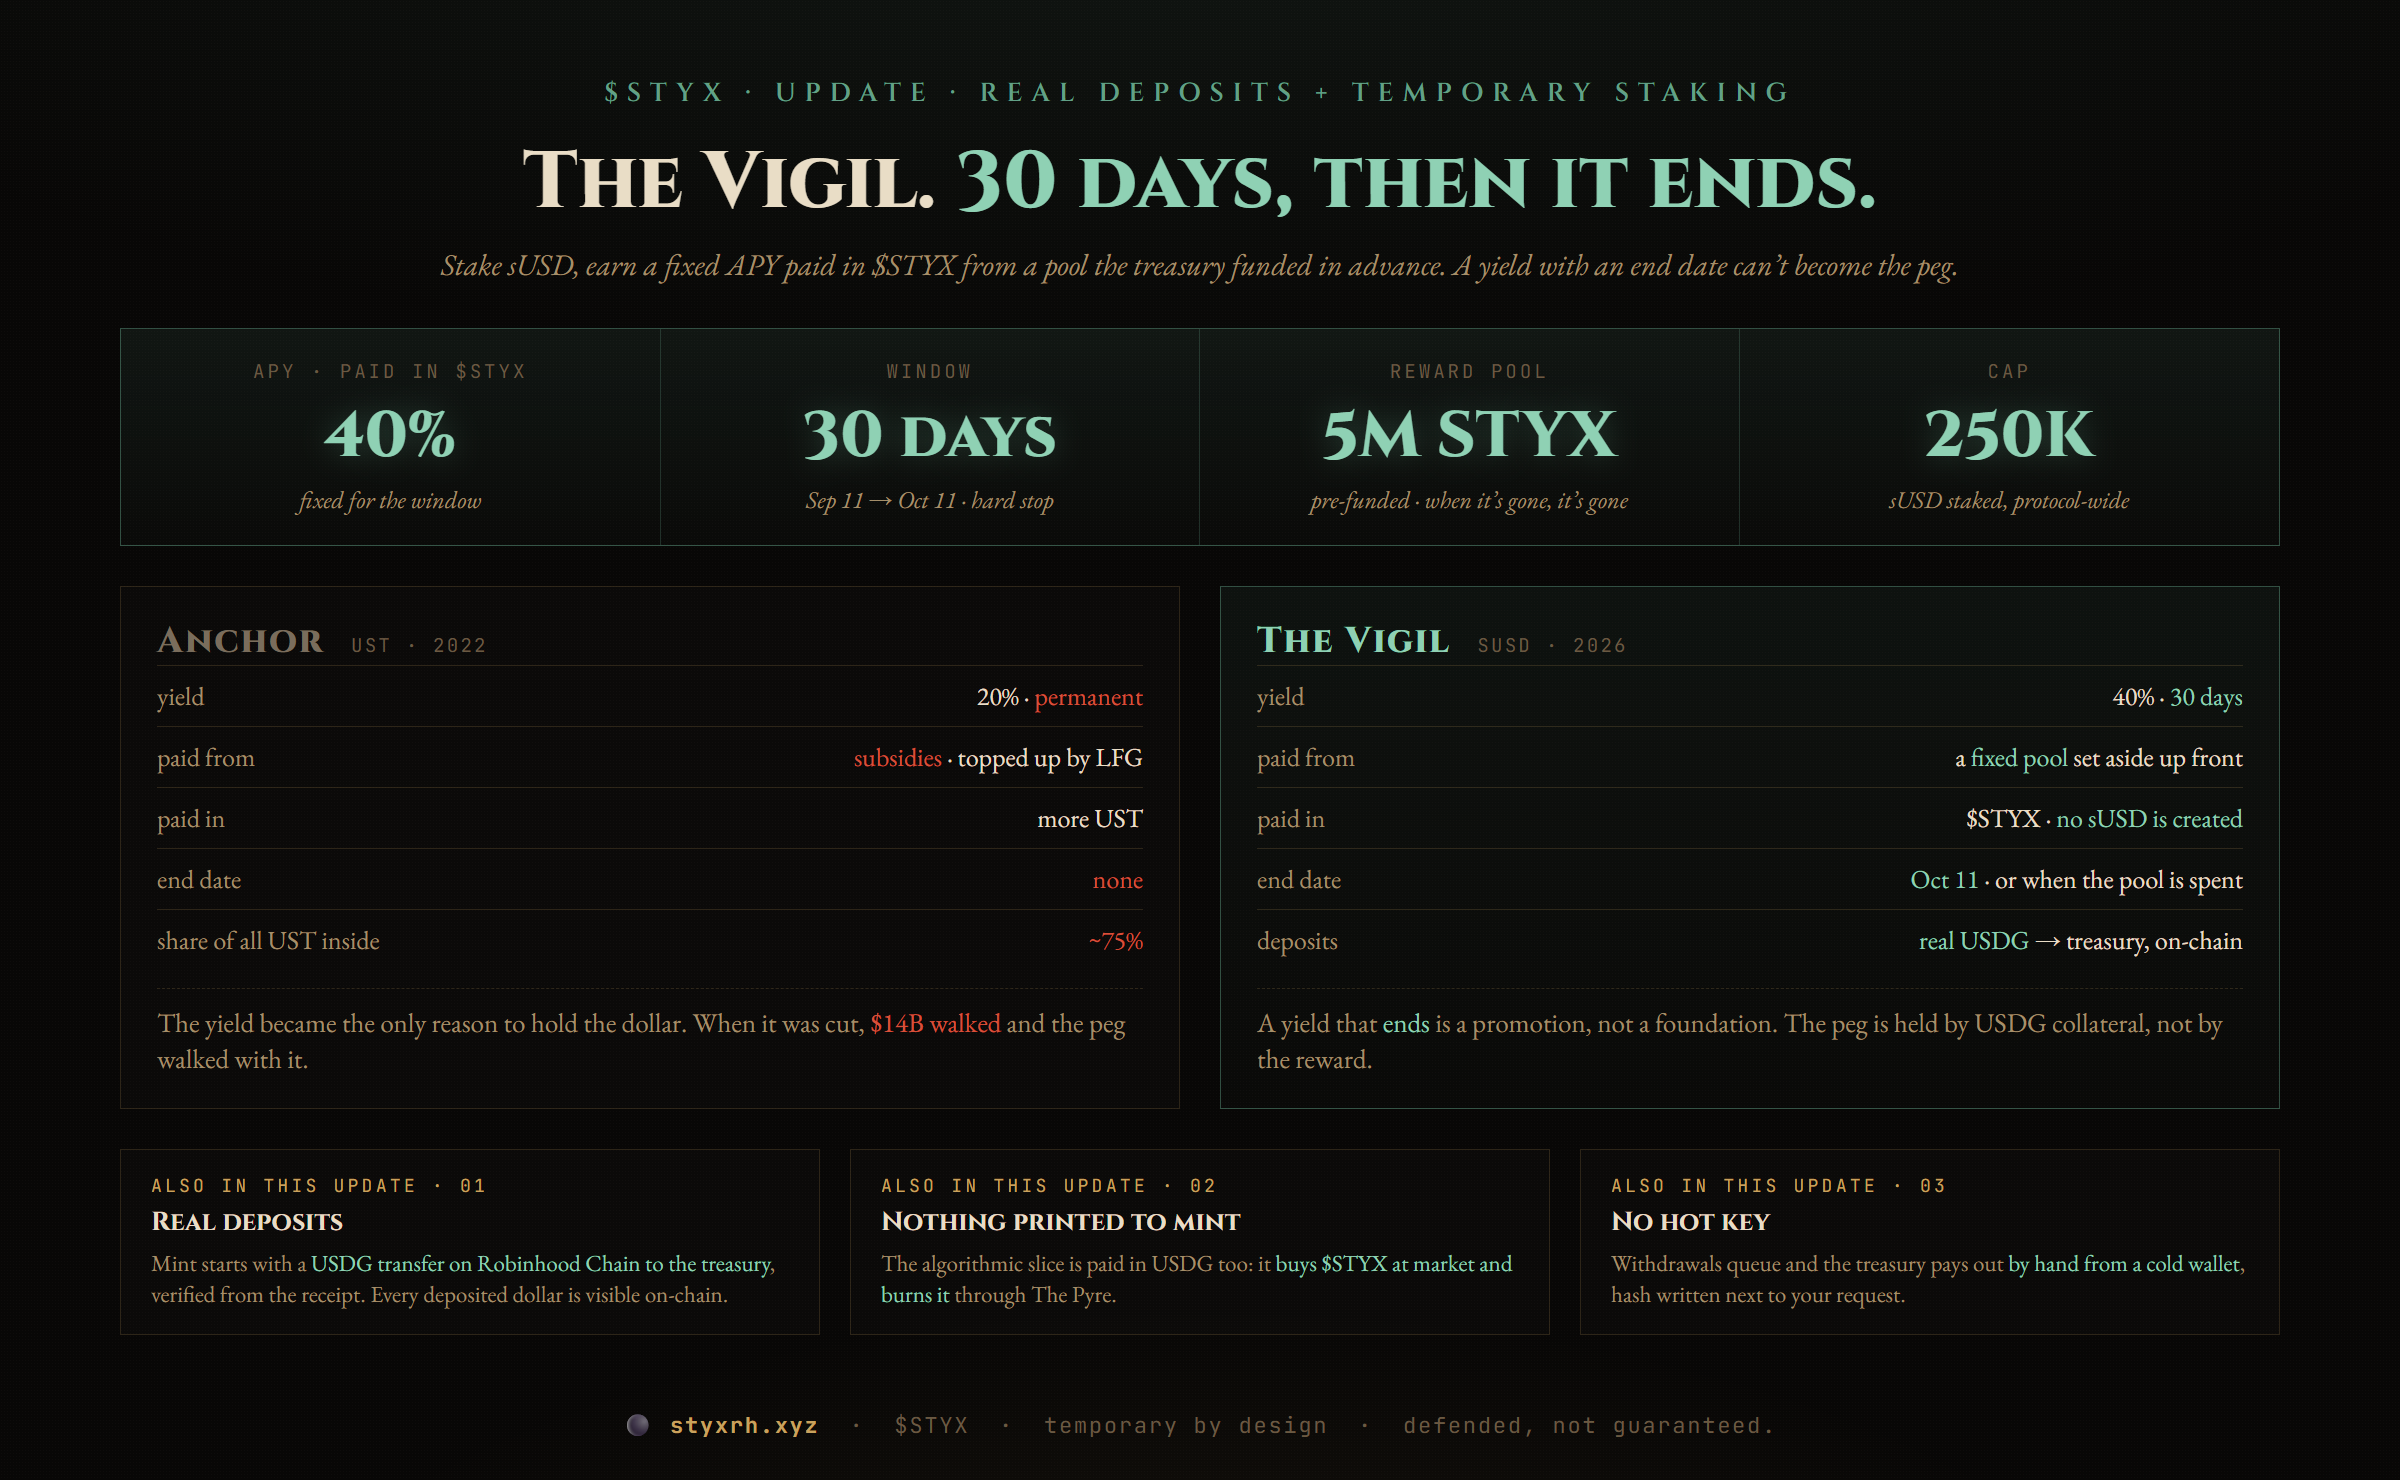
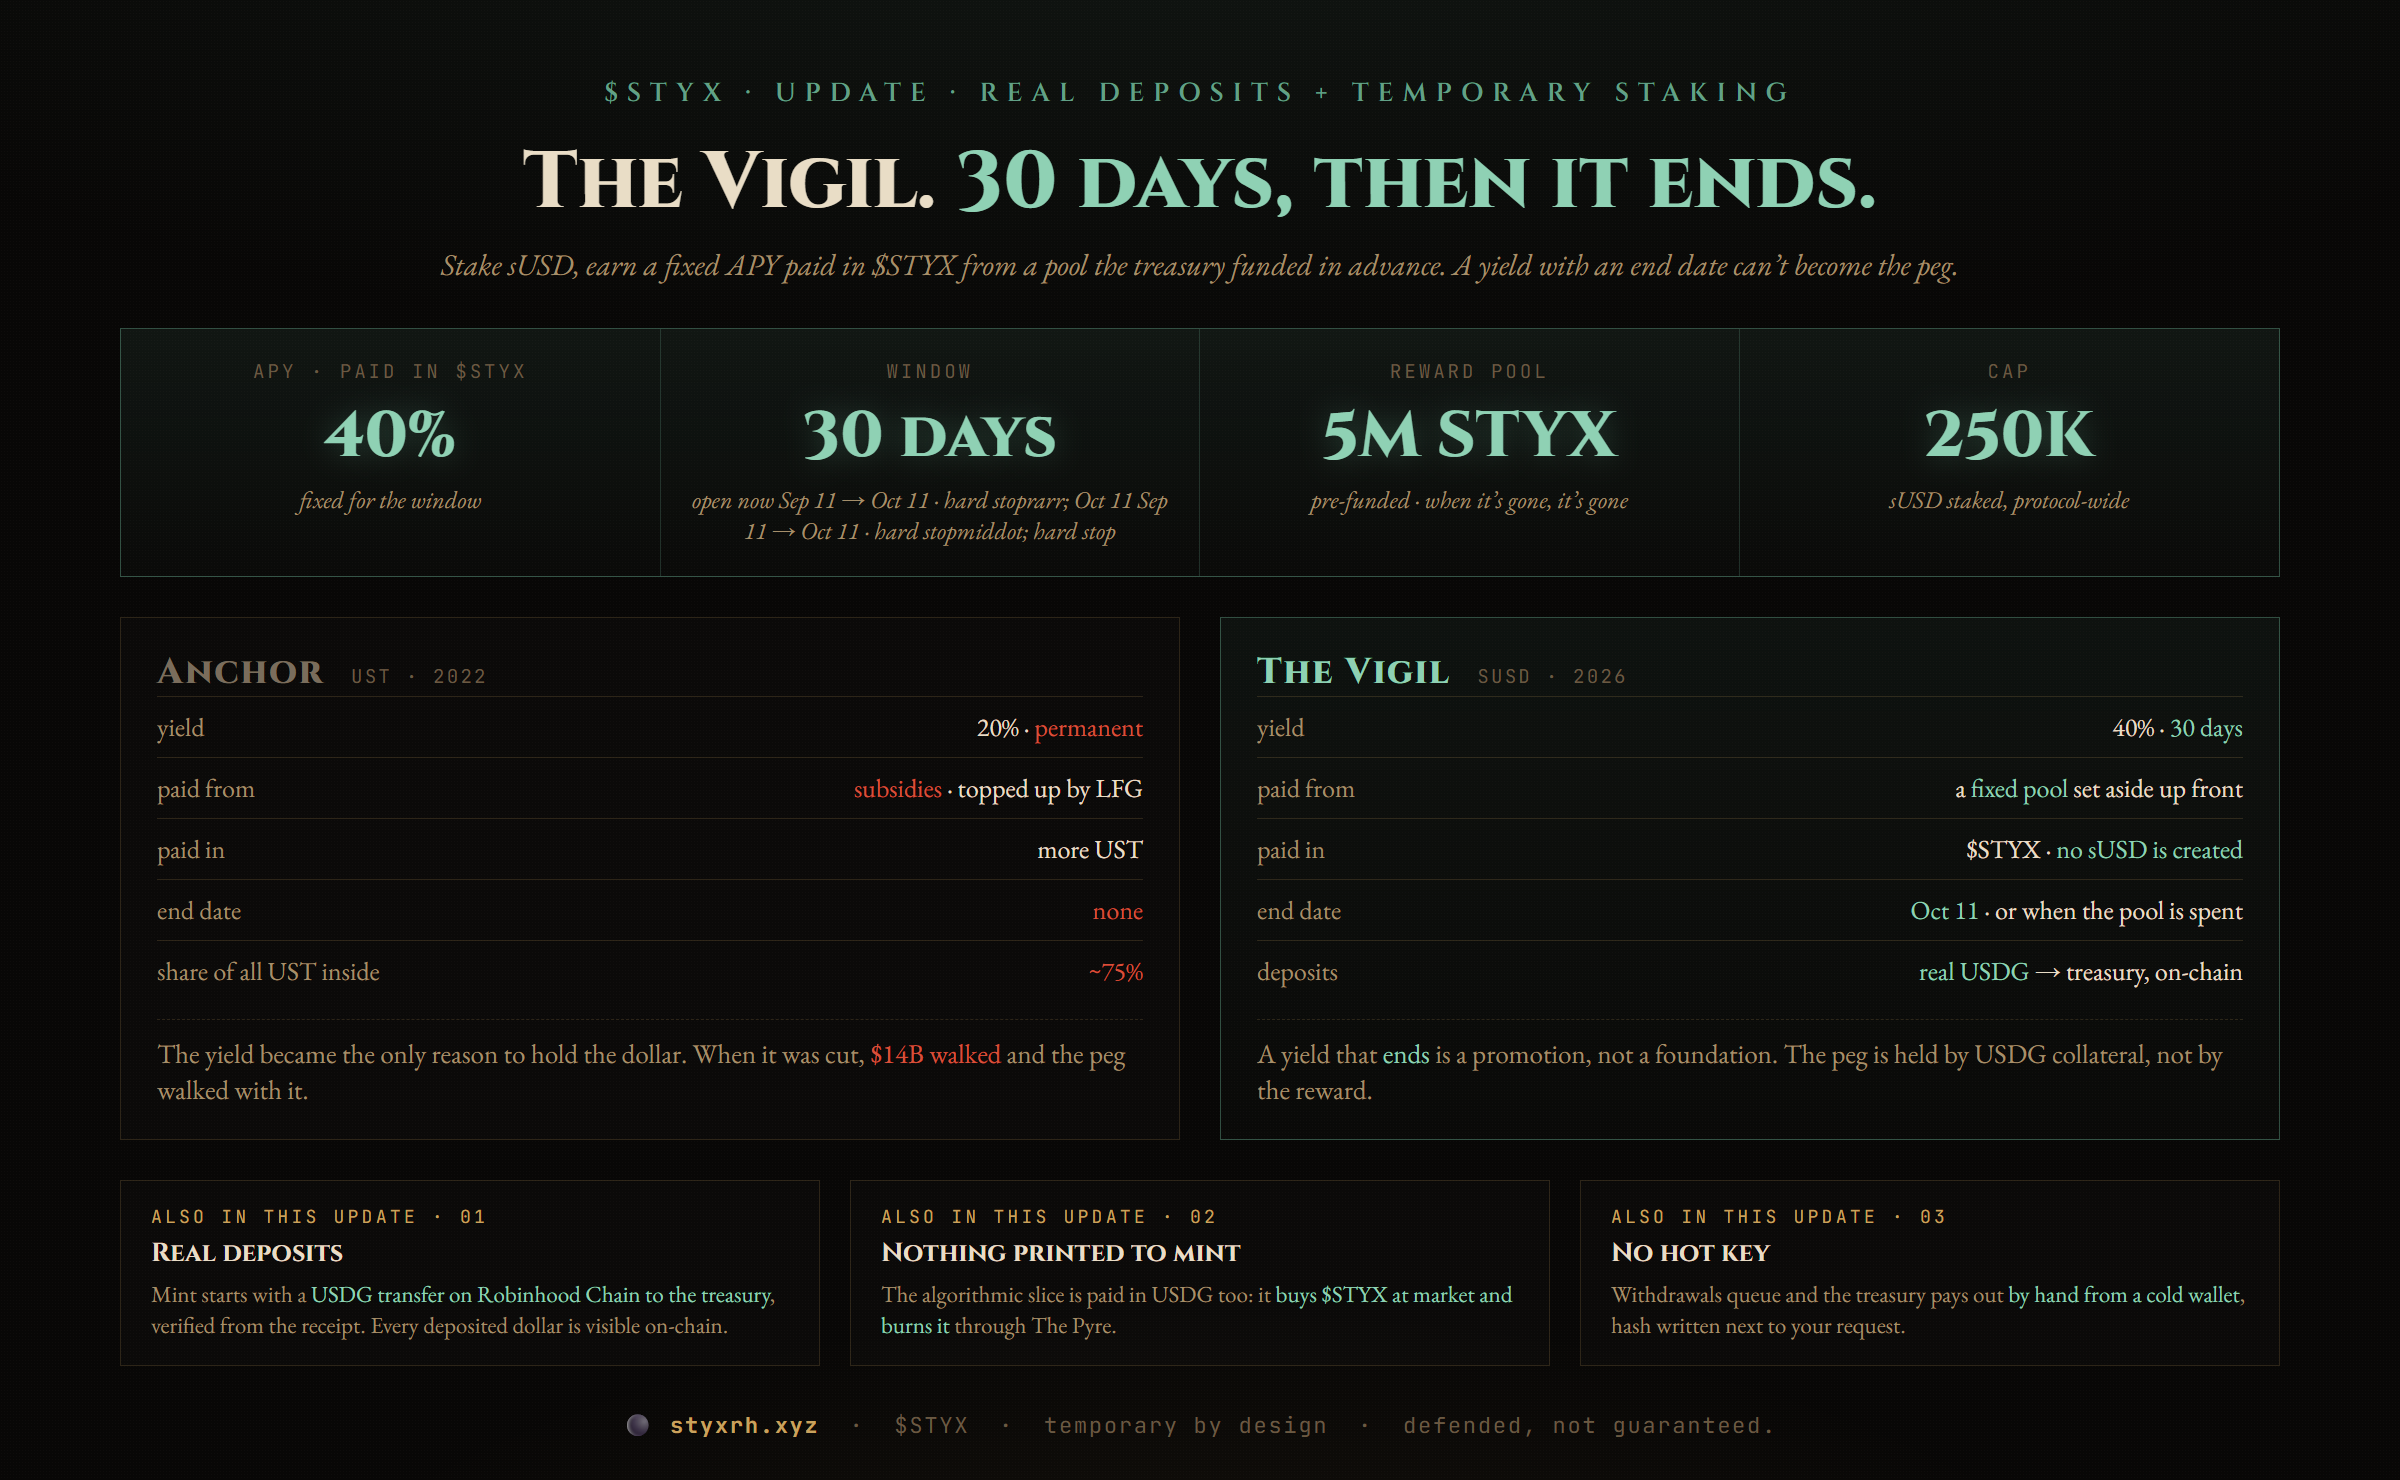
Open The Vigil now

diff --git a/_studio/graphic-vigil.html b/_studio/graphic-vigil.html
@@ -48,7 +48,7 @@ html,body{font-family:'EB Garamond',serif;color:var(--ink);background:#080706;ov
 
     <div class="hero">
       <div class="hs"><div class="l mo">APY &middot; paid in $STYX</div><div class="v ci">40%<small>fixed for the window</small></div></div>
-      <div class="hs"><div class="l mo">window</div><div class="v ci">30 days<small>Sep 11 &rarr; Oct 11 &middot; hard stop</small></div></div>
+      <div class="hs"><div class="l mo">window</div><div class="v ci">30 days<small>open now Sep 11 &rarr; Oct 11 &middot; hard stoprarr; Oct 11 Sep 11 &rarr; Oct 11 &middot; hard stopmiddot; hard stop</small></div></div>
       <div class="hs"><div class="l mo">reward pool</div><div class="v ci">5M STYX<small>pre-funded &middot; when it&rsquo;s gone, it&rsquo;s gone</small></div></div>
       <div class="hs"><div class="l mo">cap</div><div class="v ci">250K<small>sUSD staked, protocol-wide</small></div></div>
     </div>

diff --git a/server/index.js b/server/index.js
@@ -98,7 +98,7 @@ const VIGIL = {
   apy: +(process.env.VIGIL_APY || 0.40),               // 40% APY, in sUSD terms
   pool: +(process.env.VIGIL_POOL || 5_000_000),         // STYX set aside by the treasury for the whole season
   cap: +(process.env.VIGIL_CAP || 250_000),             // max sUSD staked protocol-wide
-  start: +(process.env.VIGIL_START || 1789084800000),   // 2026-09-11 00:00 UTC
+  start: +(process.env.VIGIL_START || 1),                // OPEN NOW (2026-09-09)
   end: +(process.env.VIGIL_END || 1791676800000),       // 2026-10-11 00:00 UTC — 30 days, then it is over
 };
 if (!db.vigil) db.vigil = { staked: 0, paidStyx: 0, paidUsd: 0, stakers: 0 };

diff --git a/X-KIT.md b/X-KIT.md
@@ -183,7 +183,7 @@ Also live:
 → nothing printed to mint: the algo slice buys & burns $STYX
 → no hot key: withdrawals paid by hand from cold storage
 
-Sep 11 → Oct 11. 5M $STYX pool. 250K sUSD cap.
+Open now → Oct 11. 5M $STYX pool. 250K sUSD cap.
 
 styxrh.xyz
 
